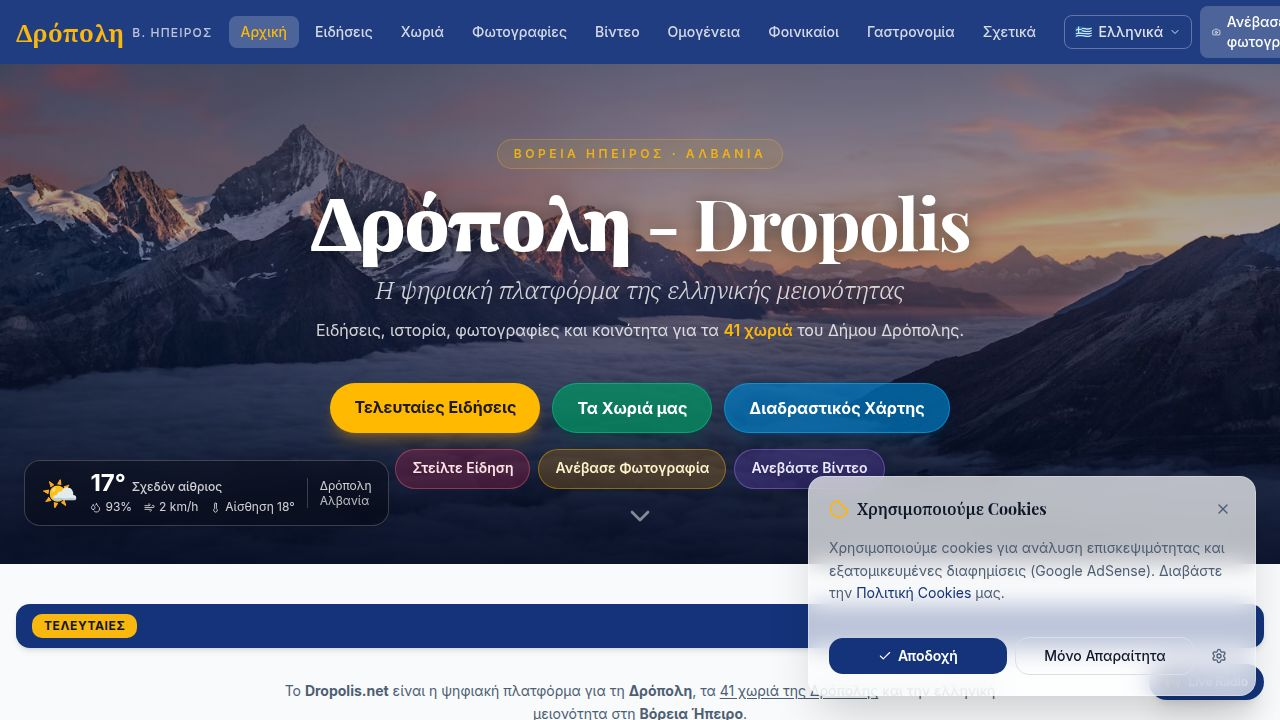
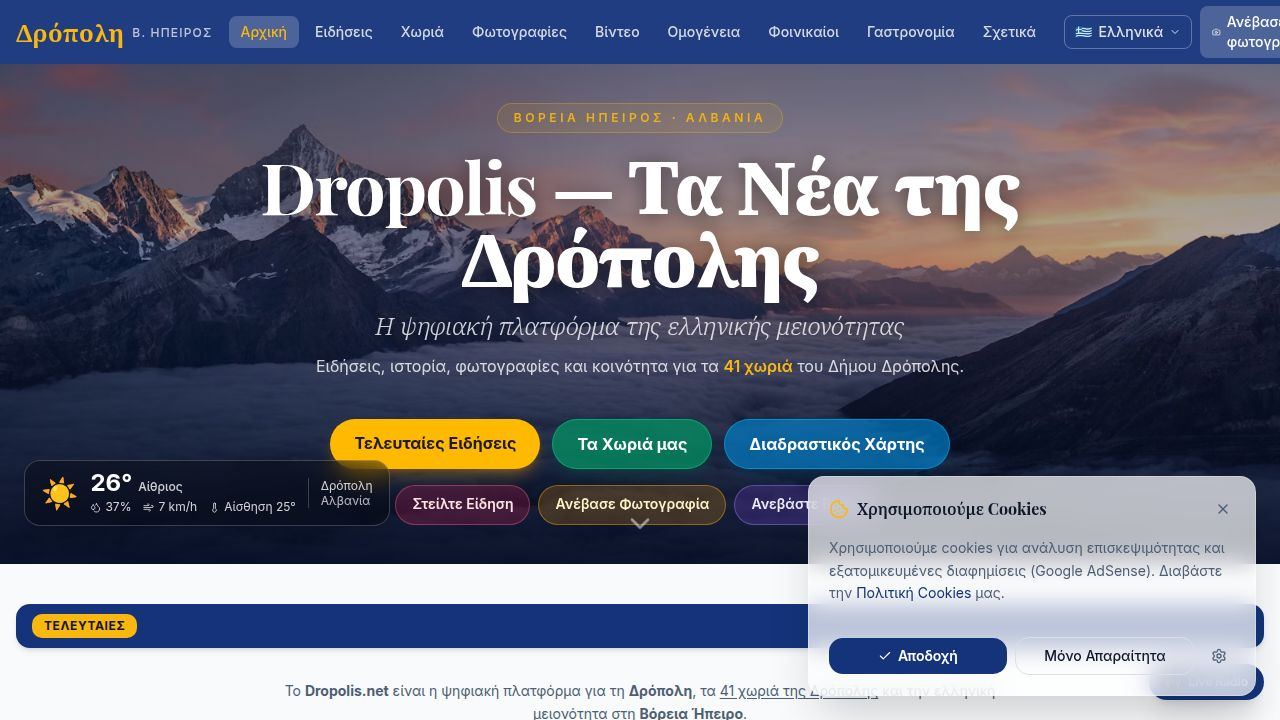
Remove the Google News Showcase script and update security policies
Removes the SWG Basic script from index.html and updates CSP in vite.config.ts and app.ts to remove references to news.google.com.

Replit-Commit-Author: Agent
Replit-Commit-Session-Id: 00749ae3-9384-46a4-b413-b650406755a2
Replit-Commit-Checkpoint-Type: full_checkpoint
Replit-Commit-Event-Id: 7819e587-2030-4c10-b1a5-50e6c79cf2fe
Replit-Commit-Screenshot-Url: https://storage.googleapis.com/screenshot-production-us-central1/e6dc6ead-03bf-40e2-8a11-fd760c7f2884/00749ae3-9384-46a4-b413-b650406755a2/ttp7NSY
Replit-Helium-Checkpoint-Created: true

Changed region(s): [[0.1875, 0.1528, 0.8125, 0.7333], [0.0312, 0.6417, 0.1875, 0.7333], [0.1875, 0.7028, 0.2188, 0.7333]]

diff --git a/artifacts/dropolis/index.html b/artifacts/dropolis/index.html
@@ -163,20 +163,6 @@
          HTML parse time. The React component initialises dataLayer, defines gtag,
          and injects the gtag.js script only after the page has painted. -->
 
-    <!-- Google News Showcase / Subscribe with Google (SWG Basic) — async, non-blocking -->
-    <script async type="application/javascript"
-            src="https://news.google.com/swg/js/v1/swg-basic.js"></script>
-    <script>
-      (self.SWG_BASIC = self.SWG_BASIC || []).push( basicSubscriptions => {
-        basicSubscriptions.init({
-          type: "NewsArticle",
-          isPartOfType: ["Product"],
-          isPartOfProductId: "CAoww9vLDA:openaccess",
-          clientOptions: { theme: "light", lang: "el" },
-        });
-      });
-    </script>
-
     <!-- Microsoft Clarity — async, non-blocking -->
     <script>
       (function(c,l,a,r,i,t,y){

diff --git a/artifacts/api-server/src/app.ts b/artifacts/api-server/src/app.ts
@@ -47,11 +47,10 @@ const securityHeaders: RequestHandler = (_req, res, next) => {
         " https://adservice.google.com" +
         " https://www.gstatic.com" +
         " https://www.youtube.com" +
-        " https://news.google.com" +
         " https://www.clarity.ms" +
         " https://scripts.clarity.ms",
-      // Styles: self + Google Fonts + SWG (Google News Showcase injects CSS)
-      "style-src 'self' 'unsafe-inline' https://fonts.googleapis.com https://news.google.com",
+      // Styles: self + Google Fonts
+      "style-src 'self' 'unsafe-inline' https://fonts.googleapis.com",
       // Fonts: self + Google Fonts CDN
       "font-src 'self' data: https://fonts.gstatic.com",
       // Images: self + data/blob URIs + all HTTPS (covers object-storage CDN, YouTube thumbs, etc.)

diff --git a/artifacts/dropolis/vite.config.ts b/artifacts/dropolis/vite.config.ts
@@ -17,8 +17,8 @@ const SECURITY_HEADERS: Record<string, string> = {
   "Permissions-Policy": "camera=(), microphone=(), geolocation=(), payment=()",
   "Content-Security-Policy": [
     "default-src 'self'",
-    "script-src 'self' 'unsafe-inline' 'unsafe-eval' https://pagead2.googlesyndication.com https://www.googletagmanager.com https://www.google.com https://partner.googleadservices.com https://static.doubleclick.net https://adservice.google.com https://www.gstatic.com https://www.youtube.com https://news.google.com https://www.clarity.ms https://scripts.clarity.ms",
-    "style-src 'self' 'unsafe-inline' https://fonts.googleapis.com https://news.google.com",
+    "script-src 'self' 'unsafe-inline' 'unsafe-eval' https://pagead2.googlesyndication.com https://www.googletagmanager.com https://www.google.com https://partner.googleadservices.com https://static.doubleclick.net https://adservice.google.com https://www.gstatic.com https://www.youtube.com https://www.clarity.ms https://scripts.clarity.ms",
+    "style-src 'self' 'unsafe-inline' https://fonts.googleapis.com",
     "font-src 'self' data: https://fonts.gstatic.com",
     "img-src 'self' data: blob: https:",
     "frame-src https://www.youtube.com https://youtube-nocookie.com https://pagead2.googlesyndication.com https://tpc.googlesyndication.com https://www.google.com https://googleads.g.doubleclick.net",